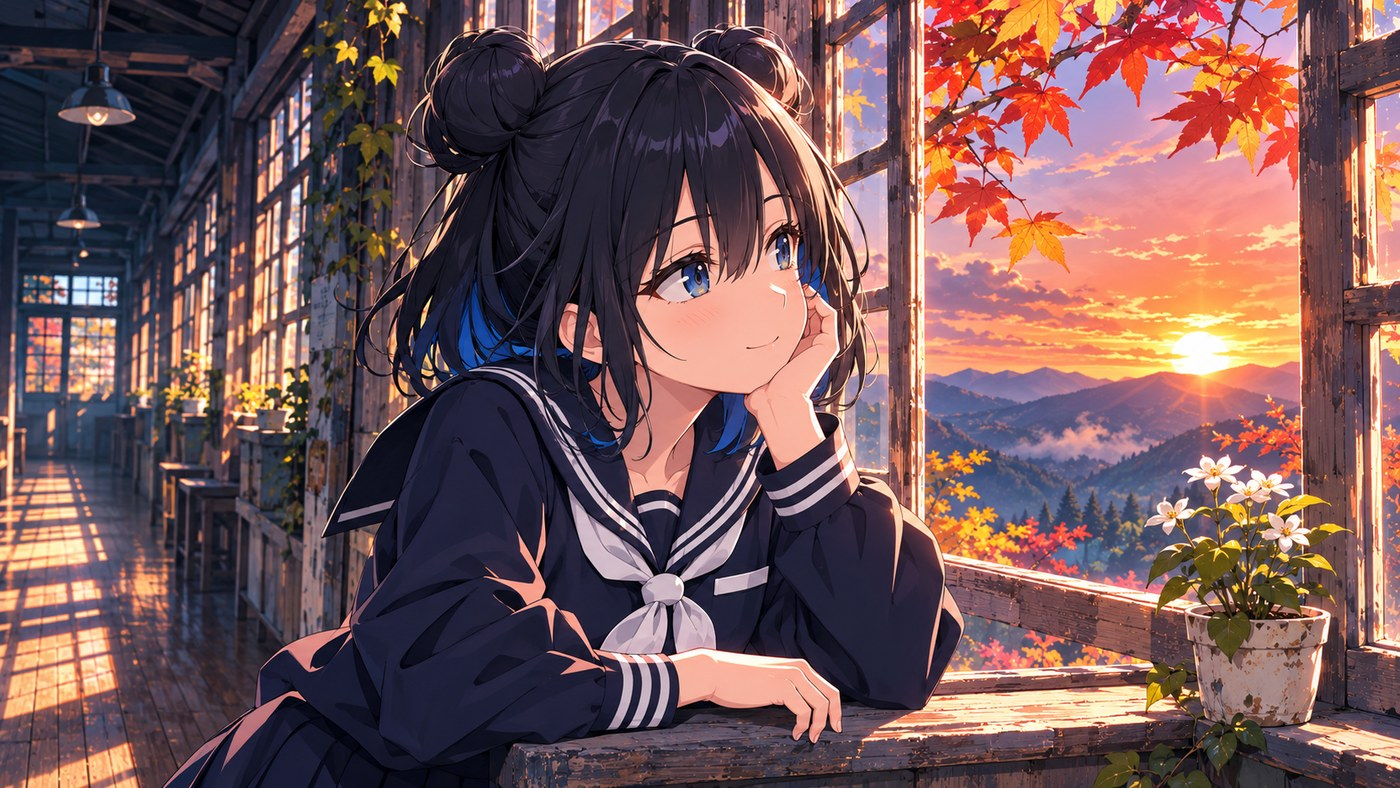
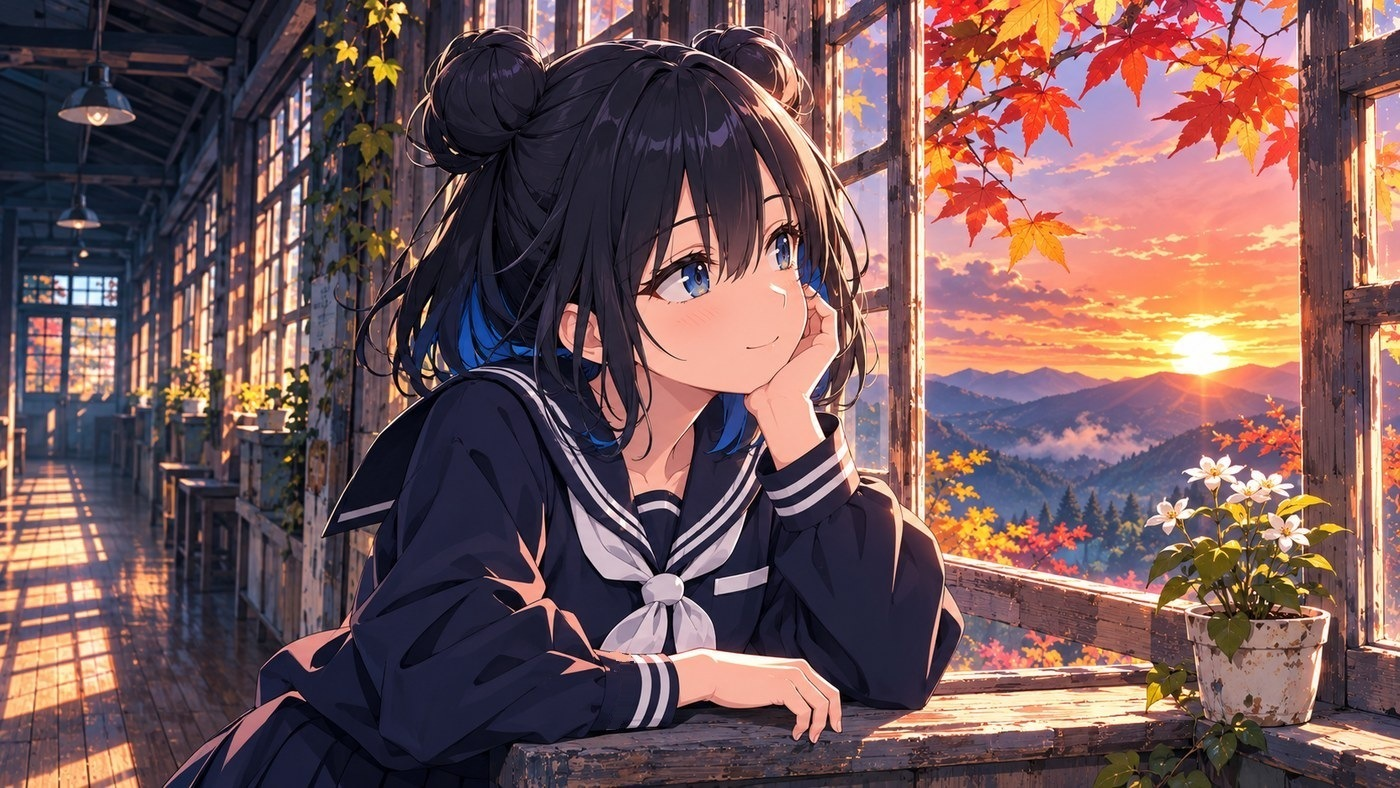
ひとこと欄をGoogleフォームにつなぐ、あーすさんの袖のラインを2本に
Claude-Session: https://claude.ai/code/session_01T7gT4r5obfrovX42zCCXkV

Changed region(s): [[0.6757, 0.5787, 0.7064, 0.6701], [0.43, 0.8223, 0.4607, 0.9137]]

diff --git a/index.html b/index.html
@@ -2158,10 +2158,26 @@ const vShow = rows => {
   const mine = rows.filter(r => r && r.who === vcur && r.ep === ep && typeof r.text === 'string').sort((a,b) => String(b.at).localeCompare(String(a.at))).slice(0,20);
   ul.innerHTML = mine.map(r => `<li>${esc(r.text.slice(0,400))}<small>${esc(vWhen(r.at))}</small></li>`).join('');
 };
+// ひとことは Google フォームへ送り、届いた分を回答の表から読む（だれでも見える。名前やメールは集めない）
+const VFORM = 'https://docs.google.com/forms/d/e/1FAIpQLScvob56NStBv3IGH7GLWOC0HbWZKem-qNw3WPatuRlQwEkyTw/formResponse', VENTRY = 'entry.1140265081';
+const VSHEET = 'https://docs.google.com/spreadsheets/d/1MPU8vj1rReq5YaPVyPc_JAfnAfYjs7XMuzllWibS2o4/gviz/tq?gid=1713345375&headers=1&tq=' + encodeURIComponent('select A,B');
+let vremote = [];
+const vMerge = () => { const seen = new Set(vremote.map(r => r.who + '#' + r.ep + '|' + r.text)); return vremote.concat(vLocal().filter(r => r && !seen.has(r.who + '#' + r.ep + '|' + r.text))); };
+window.skCom = res => {
+  try {
+    const rows = (res && res.table && res.table.rows) || [];
+    vremote = rows.map(r => { const c = r.c || [], t = c[1] && typeof c[1].v === 'string' ? c[1].v : '';
+      const m = /^([a-z]+)#(\d+)\|([\s\S]+)$/.exec(t); if(!m) return null;
+      let at = ''; const d = c[0] && /^Date\(([\d,\s]+)\)$/.exec(String(c[0].v)); if(d){ const n = d[1].split(',').map(Number); at = new Date(n[0], n[1], n[2], n[3]||0, n[4]||0, n[5]||0).toISOString(); }
+      return {who:m[1], ep:+m[2], text:m[3], at}; }).filter(Boolean);
+  } catch(e) {}
+  vShow(vMerge());
+};
 const vListen = () => {
-  if(vunsub){ try{ vunsub(); }catch(e){} vunsub = null; }
-  if(!vdb){ vShow(vLocal()); return; }
-  try { vunsub = vdb.collection('vlog_comments').onSnapshot(snap => vShow(snap.docs.map(d => d.data())), () => vShow(vLocal())); } catch(e) { vShow(vLocal()); }
+  vShow(vMerge());
+  try { const old = document.getElementById('vjsonp'); if(old) old.remove();
+    const sc = document.createElement('script'); sc.id = 'vjsonp'; sc.src = VSHEET + '&tqx=' + encodeURIComponent('out:json;responseHandler:skCom') + '&_=' + Date.now();
+    sc.onerror = () => vShow(vMerge()); document.head.appendChild(sc); } catch(e) {}
 };
 let dsel = '';
 function renderDiary(){
@@ -2361,19 +2377,18 @@ function renderVlog(){
       </details>`; }).join('')}
   </div>`;
   const form = document.getElementById('vform');
-  const vta = document.getElementById('vtext'); if(vta) vta.addEventListener('focus', () => { vConnect(); }, {once:true});
   if(form) form.addEventListener('submit', async ev => {
     ev.preventDefault();
     const ta = document.getElementById('vtext'), st = document.getElementById('vst'), btn = form.querySelector('button');
     const text = ta.value.trim(); if(!text) return;
-    const row = {who:vcur, ep:newest.no, text:text.slice(0,400), at:new Date().toISOString(), uid:vuid || ''};
+    const row = {who:vcur, ep:newest.no, text:text.slice(0,400), at:new Date().toISOString()};
     btn.disabled = true; st.textContent = '送っています…';
-    await Promise.race([vConnect(), new Promise(r => setTimeout(r, 12000))]);
-    row.uid = vuid || '';
     try {
-      if(vdb){ await vdb.collection('vlog_comments').add(row); st.textContent = '届きました。ありがとう。'; }
-      else { const a = vLocal(); a.push(row); try { localStorage.setItem('sk_vcom', JSON.stringify(a.slice(-60))); } catch(e) {} vShow(a); st.textContent = 'この端末に控えました。'; }
-      ta.value = '';
+      const body = new URLSearchParams(); body.append(VENTRY, row.who + '#' + row.ep + '|' + row.text);
+      await Promise.race([fetch(VFORM, {method:'POST', mode:'no-cors', body}), new Promise((_, rej) => setTimeout(() => rej(new Error('timeout')), 15000))]);
+      const a = vLocal(); a.push(row); try { localStorage.setItem('sk_vcom', JSON.stringify(a.slice(-60))); } catch(e) {}
+      vShow(vMerge()); st.textContent = '届きました。ありがとう。'; ta.value = '';
+      setTimeout(vListen, 4000);
     } catch(e) { st.textContent = '送れませんでした。時間をおいて、もう一度お試しください。'; }
     btn.disabled = false;
   });
@@ -2426,13 +2441,6 @@ addEventListener('hashchange', vDeep); vDeep();
 addEventListener('popstate', ev => { if(ev.state && ev.state.v && (VLOGS[ev.state.v] || ['diary','arc','map','note'].includes(ev.state.v))){ dsel = ev.state.d || ''; vOpen(ev.state.v, false); } else vHide(); });
 addEventListener('keydown', ev => { if(ev.key === 'Escape' && !vpage.hidden) vClose(); });
 renderCovers();
-// ひとことの共有は、書きこもうとしたときにだけつなぐ（見るだけの人にサインインの案内を出さない）
-let vconn = null;
-const vConnect = () => vconn || (vconn = (async () => {
-  if(!(window.claude && typeof window.claude.use === 'function')) return;
-  try { const db = await window.claude.use('db'); if(!db) return; vdb = db; try { const u = await window.claude.use('user'); if(u) vuid = await u.id(); } catch(e) {} vListen(); } catch(e) {}
-})());
-
 // ── 歩き回るドット絵のしかちゃん
 (() => {
   const el = document.getElementById('walker'), img = document.getElementById('walker-img'), bub = document.getElementById('bubble');
